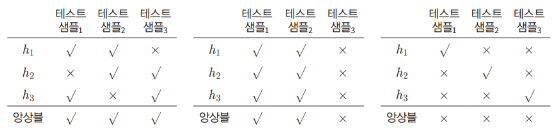
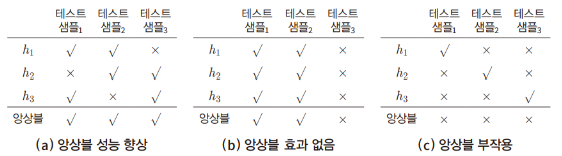
05.17

diff --git a/_posts/study/ml_dl/2024-05-15-Ensemble.md b/_posts/study/ml_dl/2024-05-15-Ensemble.md
@@ -5,8 +5,8 @@ date: 2024-05-15T00:00:00.000Z
 category: study
 tags: ml_dl
 description: >
-  Jekyll is a static site generator, an open-source tool for creating simple yet
-  powerful websites of all shapes and sizes.
+  앙상블, 배깅, 부스팅, 스태킹
+  
 ---
 머신러닝 프로젝트를 수행할 때, 앙상블 모델은 대부분 가장 상위에 랭크되고 있는 것을 확인할 수 있다. 그렇다면 왜 앙상블 모델이 보편적으로 뛰어난 성능을 보일까? 그리고 이러한 앙상블 모델은 어떤 것들이 있을까?
 
@@ -19,11 +19,14 @@ description: >
 
 ![다양성과 정확성](image.png)
 
-- 위 예시 그림에서 앙상블의 개별 모델이 다양성과 정확성을 모두 충족해야 함을 보여준다. (a)에서는 개별 모델간 다양성과 개별 모델의 정확성이 모두 충족되어 최종 예측 성능이 향상되었으나, 다양성이 충족되지 않은 (b)와 정확성이 충족되지 않은 (c)는 앙상블 효과를 거두지 못한다.
+- (a) : 개별 모델간 다양성과 개별 모델의 정확성이 모두 충족 -> 성능 향상
+- (b) : 다양성 충족 X -> 성능 향상 X
+- (c) : 정확성 충족 X -> 성능 향상 X
 
 #### Voting
 
 앙상블 모델은 각 모델 
+
 ---
 ### Bagging
 
@@ -38,6 +41,6 @@ description: >
 ---
 ### 참조
 
-[단단한 머신러닝](#https://product.kyobobook.co.kr/detail/S000001916959)
+1) [단단한 머신러닝](#https://product.kyobobook.co.kr/detail/S000001916959)
 
-[핸즈온 머신러닝](#https://product.kyobobook.co.kr/detail/S000208981368)
+2) [핸즈온 머신러닝](#https://product.kyobobook.co.kr/detail/S000208981368)
